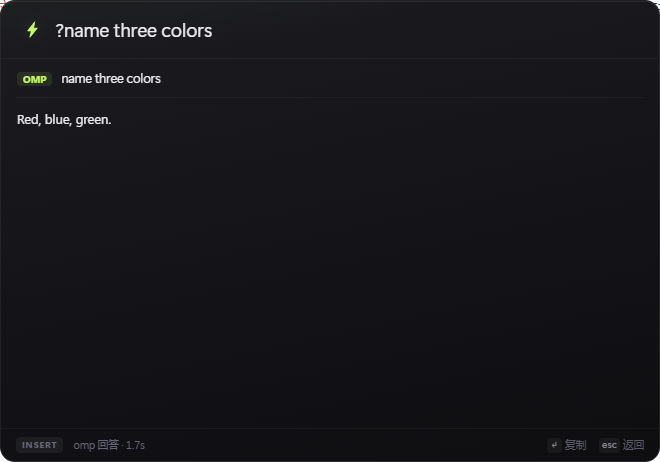
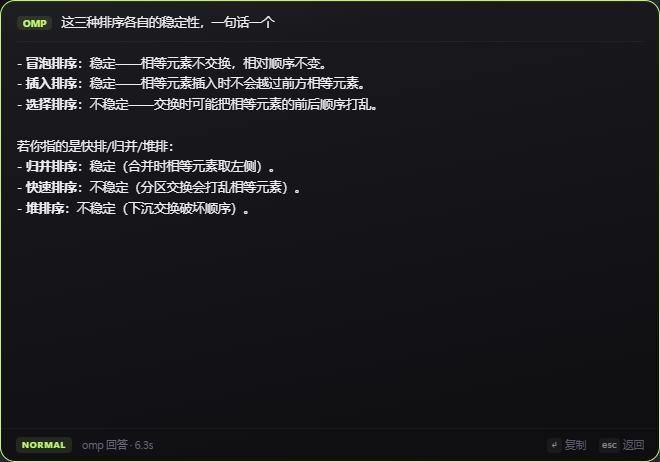
feat: ask omp about the thing you just found, and follow the mouse
Two things the launcher was leaving on the table.

Context: Tab on a file offers "问 omp 这个文件", which sends the path as an
@reference and runs the agent in that file's directory; Tab on a folder asks
about the project and runs inside it. This is the seam a launcher is uniquely
placed to fill — you already found the file, so the question should not require
copying a path and switching windows. Actions can now opt out of dismissing the
window (`keepOpen`), which is what lets the answer render in place.

Placement: the palette centres on the monitor under the cursor instead of the
primary one. Borderless and fixed-size means it can't be dragged anywhere and
stay, so "appear where the mouse is" is the whole policy. Uses the monitor's
work area, so it never lands under the taskbar.

Answers also render a small markdown subset now (headings, bold, inline code)
instead of showing raw ** markers; the escaping happens first, so the innerHTML
path is safe. The answer view hides the search bar and drops to NORMAL — an
INSERT badge on a read-only pane was lying about what the keyboard would do.

diff --git a/ui/app.js b/ui/app.js
@@ -366,16 +366,34 @@ function actionsFor(h) {
         name: "在此处启动 omp",
         run: () => invoke("omp_open", { dir: h.path }),
       });
+      out.push({
+        name: "问 omp 这个目录",
+        keepOpen: true,
+        run: () =>
+          askOmp("先看看这个项目的结构，告诉我它是做什么的、该从哪里读起。", h.path),
+      });
     }
   }
 
-  if (h.kind === "file" && !virtual) {
+  if (ompReady && h.kind === "file" && !virtual) {
     // omp works on a directory, so a file means "the folder it lives in".
     const dir = h.path.replace(/[\\/][^\\/]+$/, "");
     if (dir && dir !== h.path) {
       out.push({
         name: "在 omp 中打开所在目录",
         run: () => invoke("omp_open", { dir }),
+      });
+      out.push({
+        name: "问 omp 这个文件",
+        keepOpen: true,
+        run: () => {
+          // A path with spaces needs quoting, or the @reference ends early.
+          const ref = /\s/.test(h.path) ? `@"${h.path}"` : `@${h.path}`;
+          askOmp(
+            `请阅读 ${ref}，说明它是做什么的、关键逻辑在哪、有没有明显问题。`,
+            dir
+          );
+        },
       });
     }
   }
@@ -480,6 +498,18 @@ let askPending = "";
 let askRaf = null;
 let askT0 = 0;
 
+/** omp answers in markdown. Escaping first keeps innerHTML safe, then a few
+ *  substitutions make headings, bold and inline code readable. Anything else is
+ *  left verbatim — a launcher is not a markdown renderer. */
+function fmtAnswer(text) {
+  let out = esc(text);
+  out = out.replace(/^#{1,4}\s+(.+)$/gm, '<span class="ans-h">$1</span>');
+  // Single-line emphasis only: a stray `**` must not swallow the whole answer.
+  out = out.replace(/\*\*([^*\n]+)\*\*/g, "<b>$1</b>");
+  out = out.replace(/`([^`\n]+)`/g, "<code>$1</code>");
+  return out;
+}
+
 function queueAsk(text) {
   if (!text) return;
   askPending += text;
@@ -489,7 +519,7 @@ function queueAsk(text) {
     if (!askPending) return;
     askBuf += askPending;
     askPending = "";
-    $ansBody.textContent = askBuf;
+    $ansBody.innerHTML = fmtAnswer(askBuf);
     $ansBody.scrollTop = $ansBody.scrollHeight;
   });
 }
@@ -501,7 +531,7 @@ function setAskFinal(text) {
     askRaf = null;
   }
   askBuf = text;
-  $ansBody.textContent = text;
+  $ansBody.innerHTML = fmtAnswer(text);
   $ansBody.scrollTop = $ansBody.scrollHeight;
 }
 
@@ -515,7 +545,7 @@ function startAskPrompt() {
   renderAskHint("");
 }
 
-async function askOmp(question) {
+async function askOmp(question, cwd) {
   const q = question.trim();
   if (!q) return;
 
@@ -539,12 +569,12 @@ async function askOmp(question) {
   $keys.innerHTML = `<span><kbd>esc</kbd>取消</span>`;
   meta("omp 正在思考…");
 
-  // The box must stop accepting characters while the answer is on screen.
-  $q.readOnly = true;
-  $q.blur();
+  // The answer view is not an editing surface: drop back to NORMAL so the
+  // badge and the key hints stop claiming otherwise.
+  setMode("normal", true);
 
   try {
-    await invoke("omp_ask", { prompt: q });
+    await invoke("omp_ask", { prompt: q, cwd: cwd || null });
   } catch (e) {
     setAskFinal(String(e));
     meta("没有发起请求");
@@ -696,6 +726,15 @@ async function activate(revealIt) {
   // Actions from the Tab panel.
   if (h._act) {
     const act = h._act;
+    // Some actions answer inside the palette (asking omp about a file), so they
+    // must not dismiss the window on the way out.
+    if (act.keepOpen) {
+      closeActions();
+      try {
+        act.run();
+      } catch (_) {}
+      return;
+    }
     dismiss();
     setTimeout(() => {
       try {

diff --git a/ui/style.css b/ui/style.css
@@ -210,6 +210,16 @@ body {
   display: none;
 }
 
+/* The question is already in the answer header — an empty search field above it
+   would only be a second place to look. */
+:root[data-view="answer"] .bar {
+  display: none;
+}
+
+:root[data-view="answer"] .ans-head {
+  padding-top: 4px;
+}
+
 .ans-head {
   display: flex;
   align-items: baseline;
@@ -275,6 +285,28 @@ body {
   border-radius: 9px;
   border: 3px solid transparent;
   background-clip: padding-box;
+}
+
+/* The small markdown subset the answer pane understands. */
+.ans-body b {
+  color: var(--fg);
+  font-weight: 650;
+}
+
+.ans-h {
+  display: inline-block;
+  margin: 7px 0 2px;
+  font-size: 12.2px;
+  font-weight: 650;
+  color: var(--accent);
+}
+
+.ans-body code {
+  padding: 1px 4px;
+  border-radius: 4px;
+  background: var(--row);
+  font-family: "Cascadia Mono", Consolas, ui-monospace, monospace;
+  font-size: 11.6px;
 }
 
 .ans-foot {

diff --git a/src-tauri/src/platform.rs b/src-tauri/src/platform.rs
@@ -93,3 +93,58 @@ pub fn hide_from_switcher(hwnd: isize) {
         SetWindowLongPtrW(h, GWL_EXSTYLE, ex | WS_EX_TOOLWINDOW.0 as isize);
     }
 }
+
+/// Centre the palette on whichever monitor the cursor is on.
+///
+/// The window is borderless and fixed-size, so it cannot be dragged somewhere
+/// and stay there — "appear where the mouse is" is the whole positioning
+/// policy, and it is what multi-monitor users expect from a launcher.
+pub fn center_on_cursor_monitor(hwnd: isize, width: i32, height: i32) {
+    use windows::Win32::Foundation::POINT;
+    use windows::Win32::Graphics::Gdi::{
+        GetMonitorInfoW, MonitorFromPoint, MONITORINFO, MONITOR_DEFAULTTONEAREST,
+    };
+    use windows::Win32::UI::WindowsAndMessaging::{
+        GetCursorPos, SetWindowPos, SWP_NOACTIVATE, SWP_NOSIZE, SWP_NOZORDER,
+    };
+
+    if hwnd == 0 {
+        return;
+    }
+
+    unsafe {
+        let mut pt = POINT::default();
+        if GetCursorPos(&mut pt).is_err() {
+            return;
+        }
+
+        let monitor = MonitorFromPoint(pt, MONITOR_DEFAULTTONEAREST);
+        if monitor.is_invalid() {
+            return;
+        }
+
+        let mut info = MONITORINFO {
+            cbSize: core::mem::size_of::<MONITORINFO>() as u32,
+            ..Default::default()
+        };
+        if !GetMonitorInfoW(monitor, &mut info).as_bool() {
+            return;
+        }
+
+        // rcWork excludes the taskbar, so the palette never lands under it.
+        let work = info.rcWork;
+        let x = work.left + ((work.right - work.left) - width) / 2;
+        let y = work.top + ((work.bottom - work.top) - height) / 2;
+
+        let h = HWND(hwnd as *mut core::ffi::c_void);
+        let _ = SetWindowPos(
+            h,
+            None,
+            x,
+            y,
+            0,
+            0,
+            SWP_NOSIZE | SWP_NOZORDER | SWP_NOACTIVATE,
+        );
+    }
+}

diff --git a/src-tauri/src/main.rs b/src-tauri/src/main.rs
@@ -256,6 +256,16 @@ fn show_palette(app: &AppHandle) {
 
     // The UI resets itself on blur, while it is still hidden, so by the time we
     // show the window there is nothing left to paint but the answer.
+    //
+    // Position first: on a multi-monitor desk the palette has to come up on the
+    // screen the cursor is on, otherwise summoning it is a glance at the wrong
+    // half of the room.
+    let (dw, dh) = win
+        .outer_size()
+        .map(|s| (s.width as i32, s.height as i32))
+        .unwrap_or((660, 462));
+    platform::center_on_cursor_monitor(self_hwnd, dw, dh);
+
     let _ = win.show();
     let _ = win.unminimize();
     if let Ok(h) = win.hwnd() {

diff --git a/README.md b/README.md
@@ -14,7 +14,7 @@
 
 `src-tauri/target/release/flint.exe`（6 MB 左右，单文件，无需安装）
 
-双击后它缩到托盘，按 `Alt+Space` 召唤。
+双击后它缩到托盘，按 `Alt+Space` 召唤。多显示器上，它会出现在**鼠标所在的那块屏幕**，而不是永远守着主屏。
 
 不依赖任何运行时，也不需要配置。装了 [oh-my-pi](https://github.com/can1357/oh-my-pi) 的话，`?` 可以直接在面板里问它；没装就少这一项，其余功能一个不少。
 
@@ -119,8 +119,18 @@
 **直接问**：输入 `?` 加问题，回车。
 
 - 答案逐字流出来，不是等半天再整段出现
+- 标题、加粗、行内代码按 markdown 渲染，不用自己翻译 `**`
 - 底部显示耗时，`Enter` 复制全文，`Esc` 回到搜索
 - 跑的是 `omp -p --mode json --no-session`，一次问答一个进程，答完就退
+
+**带着上下文问**——这是启动器和 agent 真正接上的地方：
+
+| 选中什么 | `Tab` → | 发生什么 |
+| --- | --- | --- |
+| 一个文件 | 问 omp 这个文件 | 自动附上 `@<完整路径>`，工作目录切到它所在的文件夹 |
+| 一个文件夹 | 问 omp 这个目录 | 在那个项目里分析结构，告诉你从哪读起 |
+
+不用先复制路径、再切窗口、再粘进去。你在启动器里已经找到它了，问题就该接着问。
 
 **在项目里开工**：搜到项目文件夹，`Tab` → **在此处启动 omp**，会开一个 Windows Terminal，在那个目录里起 omp 的 TUI。
 
